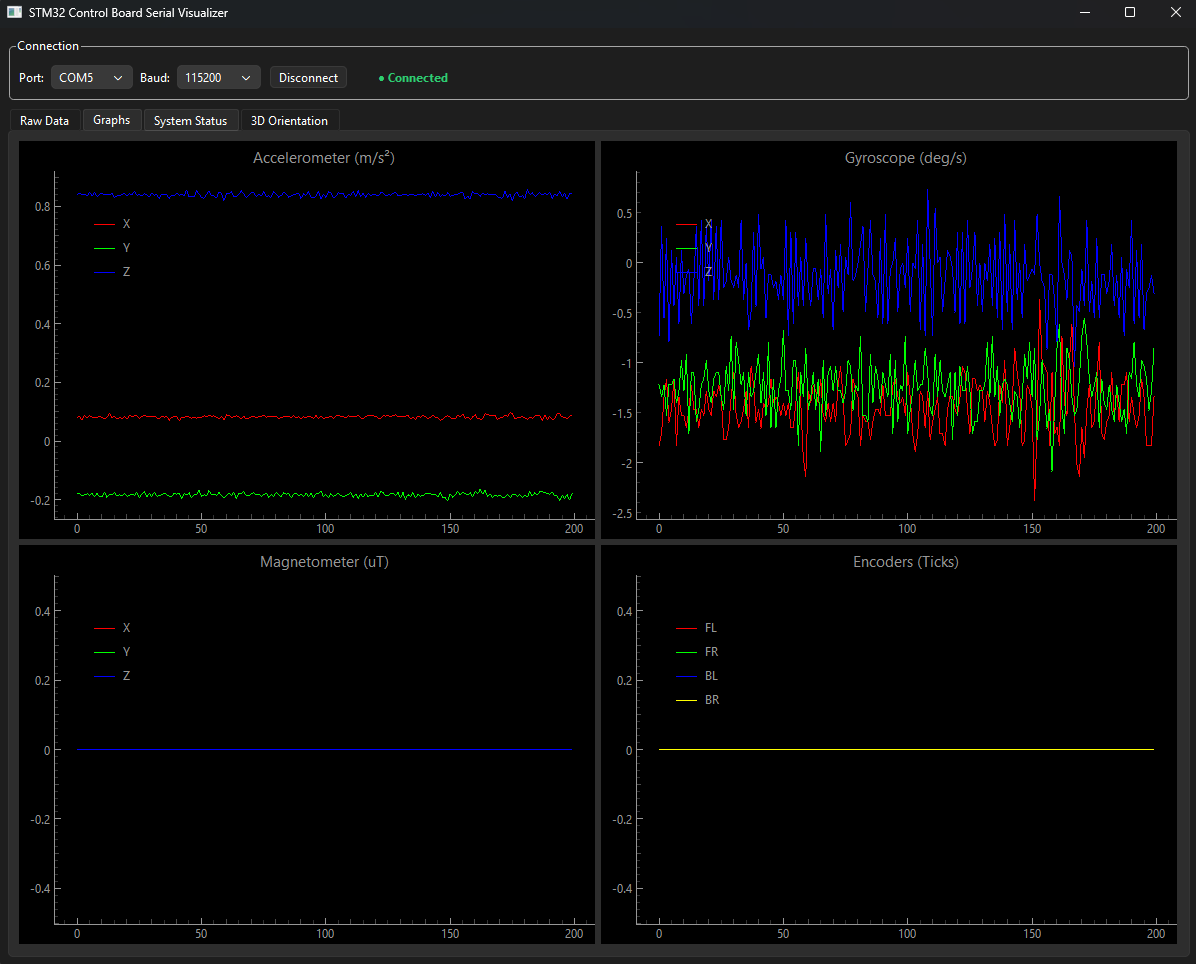
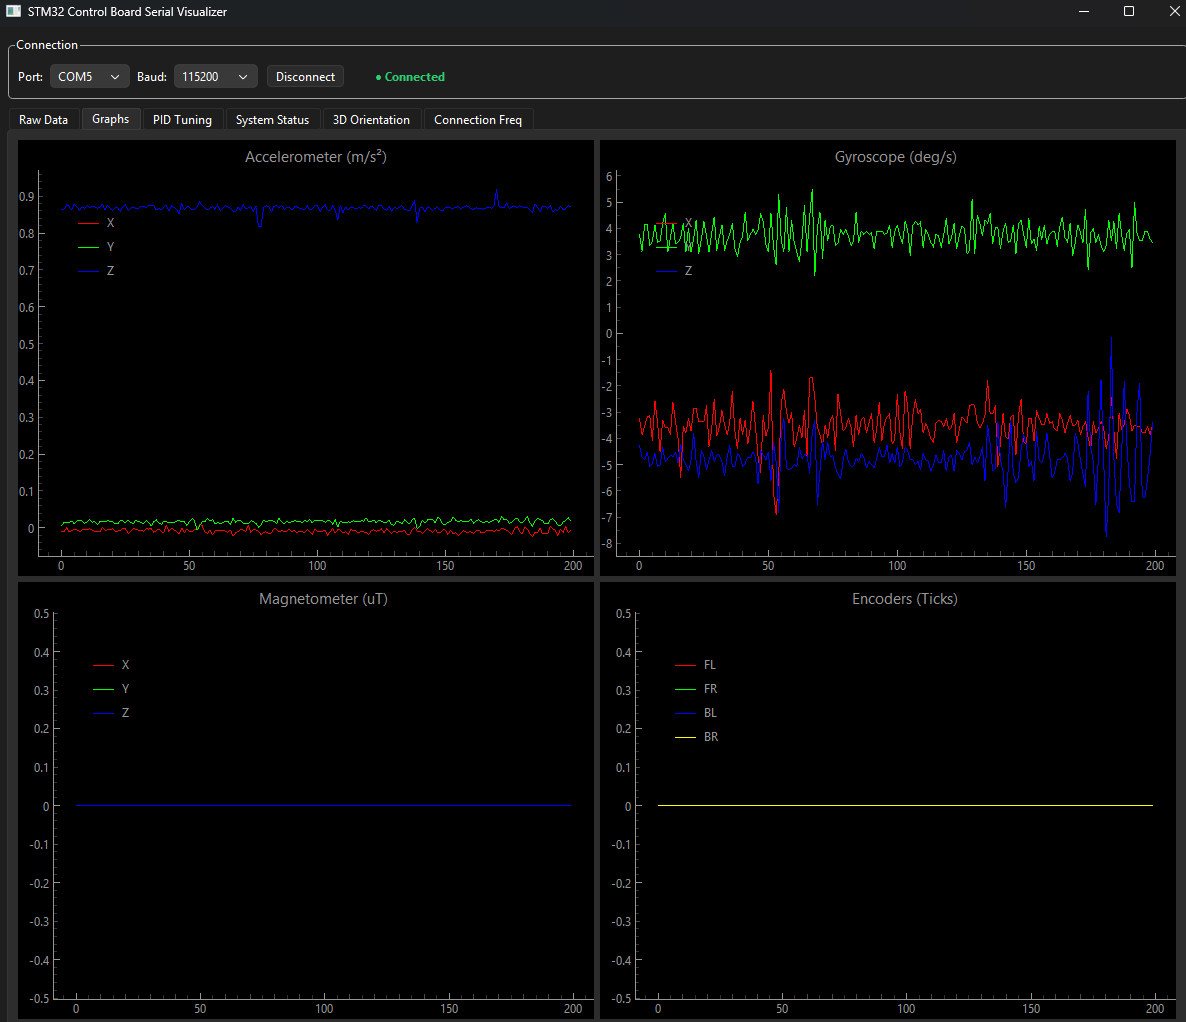
update gui images and doc references

diff --git a/README.md b/README.md
@@ -8,6 +8,14 @@ The system uses a binary Serial UART protocol for communication between the PC a
 
 https://www.yahboom.net/study/ROS-Driver-Board
 
+## 📚 Documentation
+
+For more detailed information about the system design and protocols, please refer to the following documents:
+
+- [**Architecture Overview**](docs/architecture.md): High-level system design and component interactions.
+- [**Abstraction Layers**](docs/abstraction_layers.md): Detailed explanation of the modular firmware structure (App, BSP, Core).
+- [**Serial Topics**](docs/serial_topics.md): Specification of the binary communication protocol used for PC-Board telemetry and control.
+
 
 ## 🚀 Key Features
 
@@ -33,11 +41,14 @@ https://www.yahboom.net/study/ROS-Driver-Board
 - **Dynamic Configuration**: Modify PID parameters and system settings on-the-fly via the serial link.
 
 ### GUI Gallery
-| Dashboard & 3D | Raw Data & Control |
+|  |  |
 |---|---|
+| Dashboard Raw Data | IMU Data |
 | ![GUI 1](docs/media/gui1.png) | ![GUI 2](docs/media/gui2.png) |
-| **System Status** | **Data Recording** |
+| System Status | 3D Orientation |
 | ![GUI 3](docs/media/gui3.png) | ![GUI 4](docs/media/gui4.png) |
+| PID Control | Connection Frequency |
+| ![GUI 5](docs/media/gui5.png) | ![GUI 6](docs/media/gui6.png) |
 
 ## 📂 Project Structure
 
